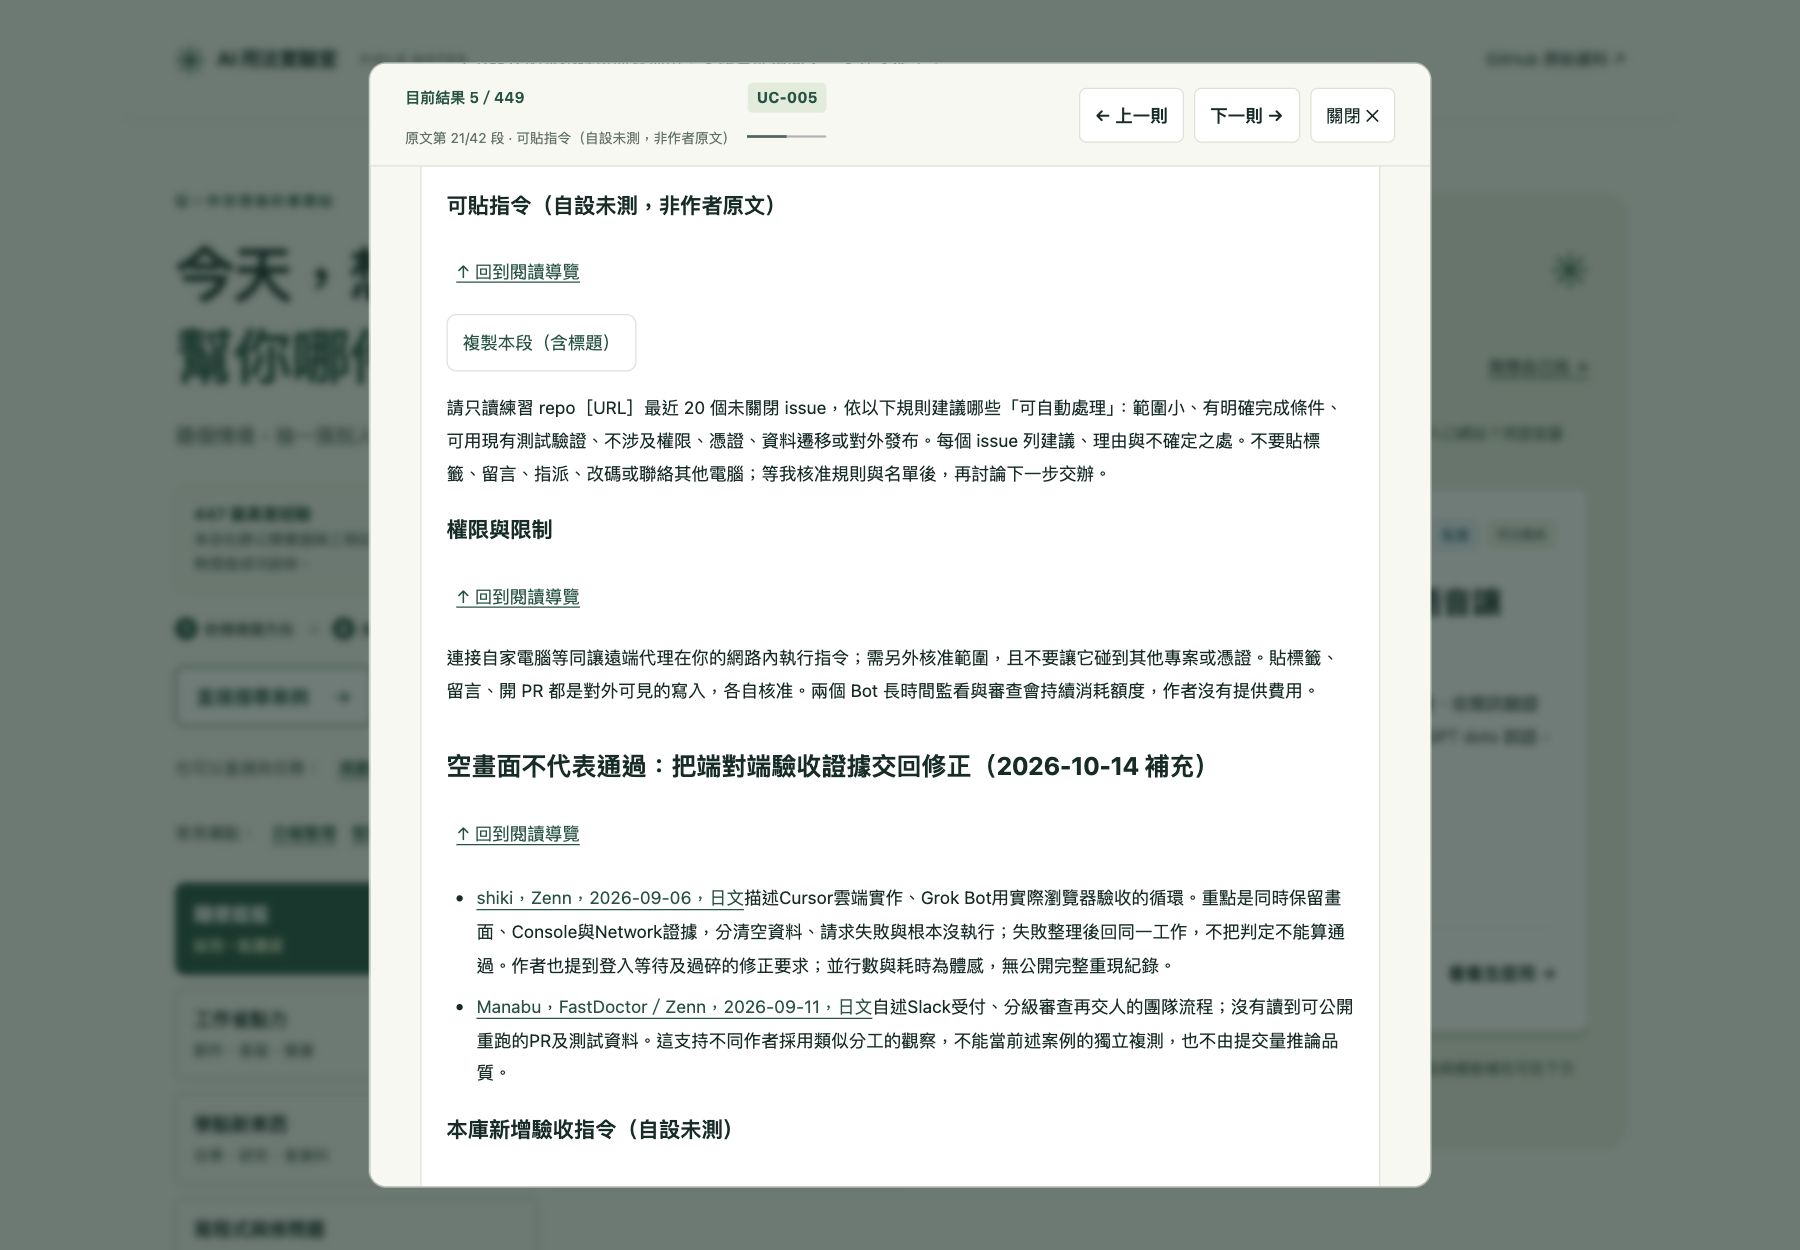
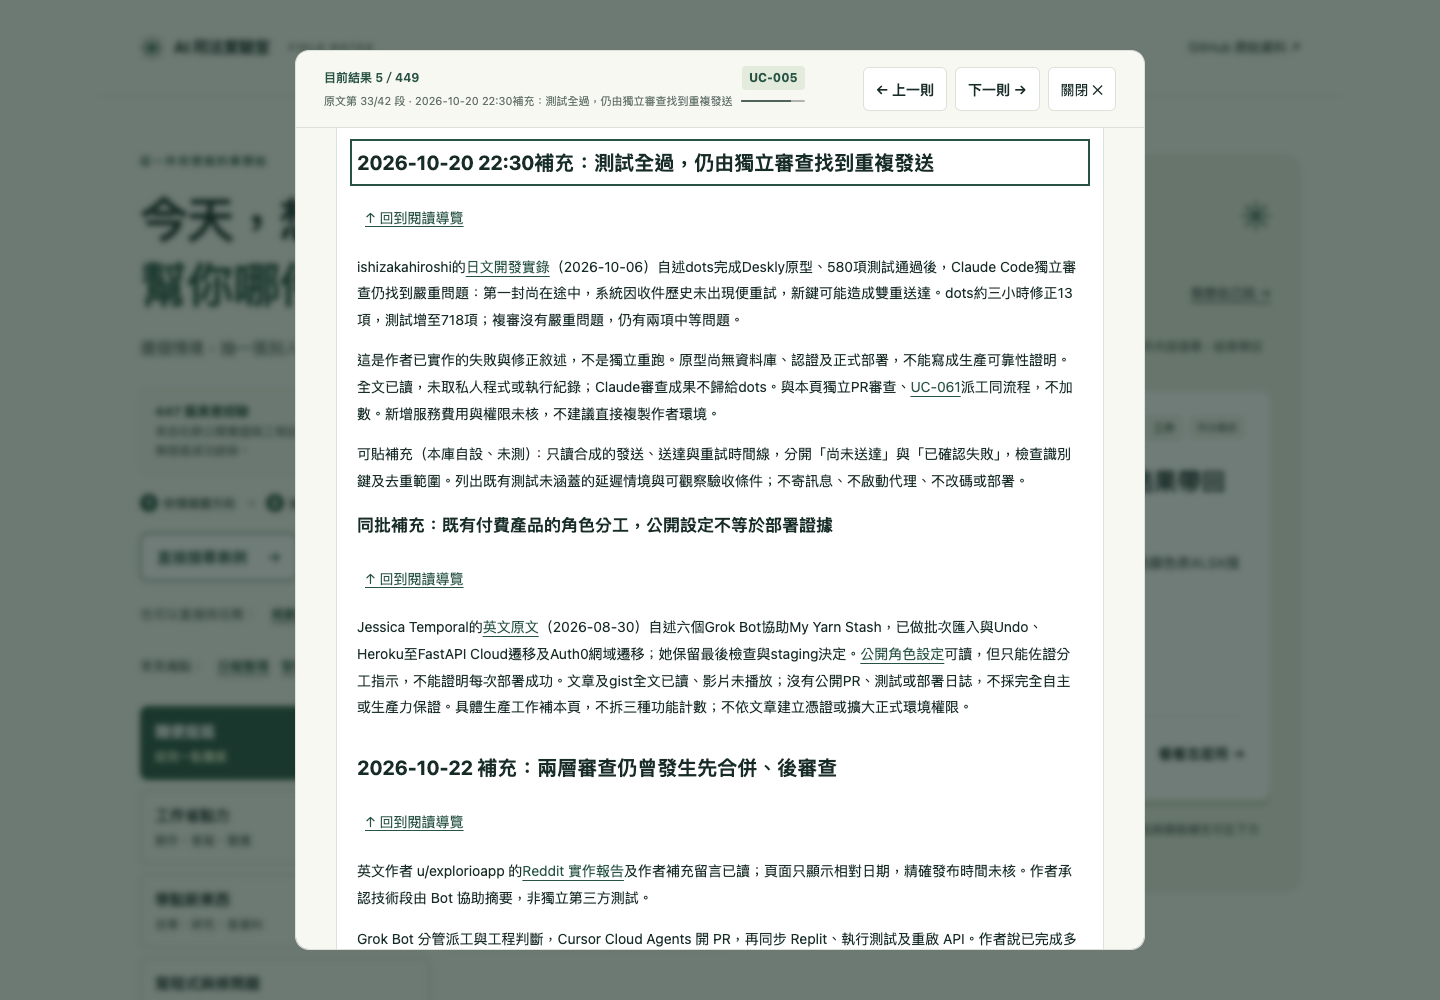
Keep narrow case outline targets visible

diff --git a/assets/reader.js b/assets/reader.js
@@ -225,10 +225,19 @@
       back.addEventListener('click',()=>moveTo(navTitle));
       research.querySelector('summary').after(back);
     }
+    let syncPosition=null;
     const moveTo=target=>{
       // scrollIntoView may also scroll the inert page behind a modal.
       const toolbar=dialog.querySelector('.detail-toolbar');
-      dialog.scrollTo({top:dialog.scrollTop+target.getBoundingClientRect().top-dialog.getBoundingClientRect().top-toolbar.getBoundingClientRect().height-18,behavior:'instant'});
+      const align=()=>{
+        const targetRect=target.getBoundingClientRect();
+        const toolbarRect=toolbar.getBoundingClientRect();
+        dialog.scrollTo({top:dialog.scrollTop+targetRect.top-toolbarRect.bottom-18,behavior:'instant'});
+      };
+      if(syncPosition)syncPosition();
+      align();
+      if(syncPosition)syncPosition();
+      align();
       const table=target.closest('.markdown-table');
       if(table){
         const cell=target.getBoundingClientRect(),viewport=table.getBoundingClientRect();
@@ -236,7 +245,11 @@
       }
       target.focus({preventScroll:true});
     };
-    const jump=index=>{research.open=true;moveTo(headings[index]);};
+    const jump=index=>{
+      research.open=true;
+      if(syncPosition)syncPosition();
+      moveTo(headings[index]);
+    };
     const jumpButton=(index,cls)=>{
       const button=make('button',cls,titles[index]);
       button.type='button';
@@ -459,6 +472,7 @@
       const toolbarLeft=dialog.querySelector('.detail-toolbar-left');
       const position=make('div','reader-position');
       const label=make('span','reader-position-label','原文尚未展開');
+      label.title='原文尚未展開';
       const progress=make('progress','reader-progress-bar');
       progress.max=headings.length;progress.value=0;
       progress.setAttribute('aria-label','原文閱讀位置');
@@ -469,6 +483,7 @@
       const updatePosition=()=>{
         if(!research.open){
           label.textContent='原文尚未展開';
+          label.title='原文尚未展開';
           progress.value=0;
           progress.setAttribute('aria-valuetext',`原文尚未展開，共 ${headings.length} 段`);
           return;
@@ -478,6 +493,7 @@
         const index=selectReadingPosition(headings,toolbarBottom+24,viewportBottom,markdown.getBoundingClientRect().bottom);
         if(index<0)return;
         label.textContent=`原文第 ${index+1}/${headings.length} 段 · ${titles[index]}`;
+        label.title=titles[index];
         progress.value=index+1;
         progress.setAttribute('aria-valuetext',`原文第 ${index+1} 段，共 ${headings.length} 段：${titles[index]}`);
       };
@@ -486,18 +502,22 @@
         if(frame)return;
         frame=requestAnimationFrame(()=>{frame=0;updatePosition();});
       };
+      syncPosition=updatePosition;
       const dispose=()=>{
         dialog.removeEventListener('scroll',schedulePosition);
         research.removeEventListener('toggle',schedulePosition);
+        dialog.removeEventListener('close',dispose);
         root.removeEventListener('resize',schedulePosition);
         if(frame)cancelAnimationFrame(frame);
         position.remove();
         toolbarLeft.classList.remove('reader-has-position');
         readingPositionTrackers.delete(dialog);
+        syncPosition=null;
       };
       readingPositionTrackers.set(dialog,dispose);
       dialog.addEventListener('scroll',schedulePosition,{passive:true});
       research.addEventListener('toggle',schedulePosition);
+      dialog.addEventListener('close',dispose);
       root.addEventListener('resize',schedulePosition);
       schedulePosition();
     }

diff --git a/assets/reader.css b/assets/reader.css
@@ -7,12 +7,12 @@
 .reader-jump strong{font-size:14px;font-weight:650;color:var(--green)}
 .reader-target{font-size:12px;line-height:1.7;color:#526057}
 /* Long original research retains a quiet, non-announcing position in the sticky toolbar. */
-.detail-toolbar-left.reader-has-position{display:grid;grid-template-columns:minmax(0,1fr) auto;column-gap:12px}
-.reader-position{grid-column:1/-1;display:flex;align-items:center;gap:8px;min-width:0;font-size:11px;line-height:1.4;color:var(--muted)}
-.reader-position-label{min-width:0;overflow-wrap:anywhere}
+.detail-toolbar-left.reader-has-position{display:grid;grid-template-columns:minmax(0,1fr) auto;grid-template-rows:auto 1.4em;column-gap:12px;row-gap:0;min-width:0;align-content:start}
+.reader-position{grid-column:1/-1;display:flex;align-items:center;gap:8px;min-width:0;height:1.4em;overflow:hidden;font-size:11px;line-height:1.4;color:var(--muted)}
+.reader-position-label{min-width:0;overflow:hidden;text-overflow:ellipsis;white-space:nowrap}
 .reader-progress-bar{flex:none;width:64px;height:4px;accent-color:var(--green)}
 @media(max-width:640px){
- .detail-toolbar-left.reader-has-position{column-gap:6px}
+ .detail-toolbar-left.reader-has-position{column-gap:6px;row-gap:0}
  .reader-progress-bar{width:48px}
 }
 .reader-jump:hover,.reader-outline-jump:hover{background:#e9eee0;border-color:var(--green)}

diff --git a/docs/qa/2026-10-25-long-reading-progress/README.md b/docs/qa/2026-10-25-long-reading-progress/README.md
@@ -14,8 +14,8 @@
 ## 實作與驗收
 
 - `assets/reader.js`：12 段以上文章在詳情固定工具列顯示當前段標題、`N/總段數` 和原生 `<progress>`；讀者捲動、視窗尺寸變動、開啟全文及鍵盤跳段時更新；使用 `aria-valuetext` 說明目前段落，沒有逐次捲動的 live-region 播報。長文間切換、短文切換、再開長文時清除舊進度節點、事件監聽器與排程的畫面更新；不在詳情對話框中的閱讀器呼叫不新增工具列狀態。
-- `assets/reader.css`：沿用既有色彩與工具列樣式，手機和 320px 視口不增加水平溢出。
-- `tests/reader.test.cjs`、`tests/reader-browser.cjs`：涵蓋目前段落選擇、邊界、鍵盤跳段同步、擴大視窗而不捲動時的結尾位置更新，以及長→長→短→長的清理生命週期。
+- `assets/reader.css`：沿用既有色彩與工具列樣式，手機和 320px 視口不增加水平溢出；段名維持單行省略，避免文字換行改變 sticky 工具列高度、遮住剛跳到的標題，完整標題保存在 `title` 與進度條 `aria-valuetext`。
+- `tests/reader.test.cjs`、`tests/reader-browser.cjs`：涵蓋目前段落選擇、邊界、鍵盤跳段同步、阻止 scroll handler 時擴大視窗仍能更新全文結尾位置，以及長→長→短→長的清理生命週期。
 - 桌面／手機直鏈、搜尋與返回流程仍保留原 URL、焦點和來源連結；案例內容與來源未改動。
 
 ## 修改前後截圖
@@ -41,7 +41,8 @@
 ## 測試、限制與下一步
 
 - 基準：`node --test tests/*.test.cjs` **306 通過**；修改後同指令 **307 通過，0 失敗**。`node --check assets/reader.js` 與 `node --check tests/reader-browser.cjs` 通過；靜態 Pages 預覽建置成功。
-- 瀏覽器工具直接開啟正式站與本機預覽，完成上述桌面／手機路徑。`READER_URL=http://127.0.0.1:8100/ai-agent-use-cases/ READER_ENGINE=chromium node tests/reader-browser.cjs` 因工作目錄沒有 `playwright` npm 套件而無法執行；沒有在本機安裝依賴。完整 Playwright／Axe 驗收仍待 Actions。
-- 沒有獨立 lint、type-check 或 `package.json` build 指令；這次未量測 Axe 或效能分數。
+- 以暫存依賴（未寫入 repo）執行 Chromium `tests/reader-browser.cjs`：桌面、手機、小手機三組均 `PASS`，reader/outline/focus/resize/直鏈/返回流程通過；每個尺寸 Axe 0 violations。Playwright 截圖與暫存依賴皆放在 `/tmp`。
+- 沒有獨立 lint、type-check 或 `package.json` build 指令；未量測效能分數。
+- **本次 PR 的回歸修正：**初次 GitHub browser QA 在 320px 量到目錄跳段後標題被可換行的進度列遮住；改為單行省略，完整標題仍在 `title`／`aria-valuetext`。修正後 Chromium reader／outline browser scripts 在桌面、手機、小手機皆通過；新 head 的 GitHub Actions 仍待重跑確認。
 - **Actions 現況另列風險：**本輪查詢最近 60 筆 workflow：52 成功、3 失敗、3 執行中、2 取消。main `d03c557` 最新 [Improvement round QA #40150712715](https://github.com/RichardHan/ai-agent-use-cases/actions/runs/40150712715) 在 `tests/round-browser.cjs:133` 因 reload 後 `#detail[open]` 30 秒逾時；前一個 [Round QA #40149678519](https://github.com/RichardHan/ai-agent-use-cases/actions/runs/40149678519) 通過直鏈載入後，`tests/round-browser.cjs:135` 又得到 27 個 `failedPaths`。另 [Facet counts #40149517989](https://github.com/RichardHan/ai-agent-use-cases/actions/runs/40149517989) 對已 supersede 的 `072ae76` 印出 skip，後續仍無條件檢查未建立的 `facet-published/catalog.json` 而失敗。前兩個 reload 症狀尚未證明與本次閱讀提示有關；本輪未跨題修改現有 Actions。main Pages 部署 run `40150712543` 成功。
 - 下一輪最值得做：在目前 main 重現並修復 Round QA reload 後詳情／來源載入失敗，再讓 stale-publication skip 和其後置步驟共用明確結果，最後完整重跑 Actions；禁止只延長逾時或把失敗當成功。

diff --git a/SITE.md b/SITE.md
@@ -1,6 +1,6 @@
 ## 2026-10-25 長篇案例閱讀位置提示
 
-針對 UC-005 等 12 段以上詳情在手動續讀時無法確認原文位置的問題，於固定工具列顯示目前 H2/H3 段落、`N／總段數` 及原生進度條；同步鍵盤跳段、捲動與視窗尺寸變動，不播報每次位置更新，並在切換長篇／短篇時清除前一筆狀態。正式站基準搜尋「旅遊」＋「生活」20 筆、UC-001 來源與返回正常；修改前正式 UC-005 有 42 段、沒有閱讀進度。修改後本機 Pages 相容預覽在 1440／390／320px 皆無水平溢出，鍵盤到第 21／42 段、手機到第 42／42 段，11 段 UC-003 不顯示提示；全套 307 項測試通過。獨立審查提出的長短篇生命週期、無 dialog fixture、自動化測試參數與 viewport resize 更新均已修正。正式 Pages 部署後檢查仍待 Actions；最新 main Round QA #40150712715 的 reload 後 `#detail[open]` 逾時另列為下一輪待查，不混稱本輪已解。[兩案、前後截圖、走查與驗收限制](docs/qa/2026-10-25-long-reading-progress/README.md)。
+針對 UC-005 等 12 段以上詳情在手動續讀時無法確認原文位置的問題，於固定工具列顯示目前 H2/H3 段落、`N／總段數` 及原生進度條；同步鍵盤跳段、捲動與視窗尺寸變動，不播報每次位置更新，窄螢幕段名單行省略以穩定跳段錨點，完整標題仍供輔助技術讀取，並在切換長篇／短篇時清除舊狀態。正式站基準搜尋「旅遊」＋「生活」20 筆、UC-001 來源與返回正常；修改前正式 UC-005 有 42 段、沒有閱讀進度。修改後本機 Pages 相容預覽在 1440／390／320px 皆無水平溢出，段落鍵盤跳轉錨點低於工具列至少 16px，三視口 Axe 皆 0 violations，11 段 UC-003 不顯示提示；全套 307 項測試通過。獨立審查提出的長短篇生命週期、無 dialog fixture、自動化測試參數與 viewport resize 更新均已修正。正式 Pages 部署後檢查仍待 Actions；最新 main Round QA #40150712715 的 reload 後 `#detail[open]` 逾時另列為下一輪待查，不混稱本輪已解。[兩案、前後截圖、走查與驗收限制](docs/qa/2026-10-25-long-reading-progress/README.md)。
 
 ## 2026-10-25 案例詳情落地指引實體化、多端閱讀錨定穩定與 Actions 驗收加固
 
